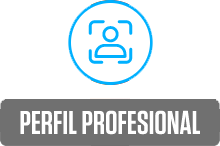
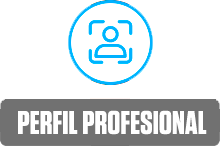
update subtitulos

diff --git a/index-sanchez.html b/index-sanchez.html
@@ -245,10 +245,10 @@
         </div>
 
         <div class="box-info-timeline">
-            <img src="https://nuevasnarrativasec.github.io/versus-electoral-2026/img/bg-sub-experiencia.png" alt="" width="100%">
+            <img src="./img/bg-sub-experiencia.png" alt="" width="100%" class="bg-sub-experiencia">
             <span class="linea-izq"></span>
             <span class="linea-der"></span>
-            <div class="box-info-izq">
+            <div class="box-info-izq info-top">
                 <img src="https://nuevasnarrativasec.github.io/versus-electoral-2026/img/bg-linea-dato.png" alt="" width="100%" class="bg-linea-dato">
                 <p class="margin-2">
                     <span>Experiencia en el sector público</span>
@@ -259,7 +259,7 @@
                     <strong>Congresista de la República (2006 - 2010)</strong>
                 </p>
             </div>
-            <div class="box-info-der">
+            <div class="box-info-der info-top">
                 <img src="https://nuevasnarrativasec.github.io/versus-electoral-2026/img/bg-linea-dato-sanchez.png" alt="" width="100%" class="bg-linea-dato">
                 <p class="margin-2">
                     <span>Experiencia en el sector público</span>
@@ -290,7 +290,7 @@
                     <strong>No se declara militancia previa distinta a la actual</strong>
                 </p>
             </div>
-            <div class="box-info-der info-sanchez">
+            <div class="box-info-der info-sanchez" src="https://nuevasnarrativasec.github.io/versus-electoral-2026/img/bg-sub-experiencia.png">
                 <p>
                     <span>Cargos de elección popular</span>
                     <strong>Congresista de la República (2021-2025)</strong>
@@ -309,7 +309,7 @@
         <img src="https://nuevasnarrativasec.github.io/versus-electoral-2026/img/bg-titulo-procesos.png" alt="" width="100%" class="bg-titulo">
 
         <div class="box-info-timeline">
-            <img src="https://nuevasnarrativasec.github.io/versus-electoral-2026/img/bg-sub-sentencias.png" alt="" width="100%" style="max-width: 133px;">
+            <img src="https://nuevasnarrativasec.github.io/versus-electoral-2026/img/bg-sub-sentencias.png" alt="" width="100%" style="max-width: 133px;" class="bg-sub-sentencias">
             <span class="linea-izq"></span>
             <span class="linea-der"></span>
             <div class="box-info-izq">

diff --git a/css/style.css b/css/style.css
@@ -1410,6 +1410,16 @@ p.margin-2{
             font-weight: 900;
         }
 
+    .bg-sub-experiencia{
+        max-width: 157px !important;
+    }
+    .bg-sub-sentencias{
+        max-width: 157px !important;
+    }
+    .info-top{
+        margin-top: -32px;
+    }
+
 @media (max-width: 1280px) {
     .bg-keiko-portada {
         height: 100%;
